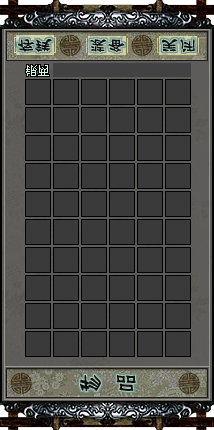
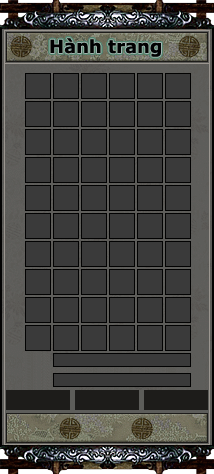
fix(hud): use authentic PC inventory window

diff --git a/Assets/Tests/EditMode/Sandbox/InventoryWindowTests.cs b/Assets/Tests/EditMode/Sandbox/InventoryWindowTests.cs
@@ -11,20 +11,21 @@ namespace VLTK.Tests.Sandbox
 {
     /// <summary>
     /// Port verification for the inventory window ("Hành Trang" / PC 物品 Open([[items]])).
-    /// Verifies the spec values trace to PC INI, the 4×7 grid binds InventoryService
+    /// Verifies the spec values trace to PC INI, the 6×10 grid binds InventoryService
     /// data, tier colors match 7bfc9072.ini, and the bag button toggles the window.
     /// </summary>
     public class InventoryWindowTests
     {
-        // ── Spec parity (PC 6a5d8c4c.ini / 7bfc9072.ini) ─────────────────────
+        // ── Spec parity (PC 05ea8560 / dc11ac12 / 7bfc9072) ──────────────────
 
         [Test]
-        public void Spec_GridIs4x7_28Slots()
+        public void Spec_GridIs6x10_60Slots()
         {
-            Assert.AreEqual(4, InventoryWindowPcSpec.GridColumns);
-            Assert.AreEqual(7, InventoryWindowPcSpec.GridRows);
-            Assert.AreEqual(28, InventoryWindowPcSpec.SlotCount);
-            Assert.AreEqual(28, InventoryPanelService.GridSlotCount);
+            Assert.AreEqual(6, InventoryWindowPcSpec.GridColumns);
+            Assert.AreEqual(10, InventoryWindowPcSpec.GridRows);
+            Assert.AreEqual(60, InventoryWindowPcSpec.SlotCount);
+            Assert.AreEqual(60, InventoryPanelService.GridSlotCount);
+            Assert.AreEqual(1, InventoryWindowPcSpec.UnitBorder);
         }
 
         [Test]
@@ -32,6 +33,25 @@ namespace VLTK.Tests.Sandbox
         {
             Assert.AreEqual("Open([[items]])", InventoryWindowPcSpec.PcOpenCommand);
             Assert.AreEqual("Player_Items", InventoryWindowPcSpec.PcButtonClassType);
+            Assert.AreEqual("dc11ac12", InventoryWindowPcSpec.PcToolbarUid);
+            Assert.AreEqual("05ea8560", InventoryWindowPcSpec.PcWindowUid);
+            Assert.AreEqual(@"\spr\Ui3\道具\daojumianban.spr", InventoryWindowPcSpec.PcBackgroundSpr);
+            Assert.AreEqual("16503a96", InventoryWindowPcSpec.PcBackgroundSpriteUid);
+        }
+
+        [Test]
+        public void Spec_WindowGeometryMatchesPcIni()
+        {
+            Assert.AreEqual(214, InventoryWindowPcSpec.WindowWidth);
+            Assert.AreEqual(474, InventoryWindowPcSpec.WindowHeight);
+            Assert.AreEqual(24, InventoryWindowPcSpec.GridLeft);
+            Assert.AreEqual(72, InventoryWindowPcSpec.GridTop);
+            Assert.AreEqual(168, InventoryWindowPcSpec.GridWidth);
+            Assert.AreEqual(280, InventoryWindowPcSpec.GridHeight);
+            Assert.AreEqual(53, InventoryWindowPcSpec.MoneyLeft);
+            Assert.AreEqual(353, InventoryWindowPcSpec.MoneyTop);
+            Assert.AreEqual(142, InventoryWindowPcSpec.CloseLeft);
+            Assert.AreEqual(414, InventoryWindowPcSpec.CloseTop);
         }
 
         [Test]
@@ -48,7 +68,7 @@ namespace VLTK.Tests.Sandbox
         [Test]
         public void Spec_FrameAndMoneyColorsMatchPcIni()
         {
-            // 6a5d8c4c.ini [Settings] + [Money].
+            // 05ea8560 [Settings] + [Money].
             AssertRgb(InventoryWindowPcSpec.FrameBorderColor, 100, 80, 30);
             AssertRgb(InventoryWindowPcSpec.FrameBgColor, 243, 194, 70);
             AssertRgb(InventoryWindowPcSpec.MoneyColor, 255, 217, 78);
@@ -67,11 +87,11 @@ namespace VLTK.Tests.Sandbox
         // ── Snapshot bound to runtime InventoryService ───────────────────────
 
         [Test]
-        public void BuildSnapshot_AlwaysHas28Slots()
+        public void BuildSnapshot_AlwaysHas60Slots()
         {
             var snap = InventoryPanelService.BuildGridSnapshot((InventoryService)null, 1);
-            Assert.AreEqual(28, snap.totalSlots);
-            Assert.AreEqual(28, snap.rows.Count);
+            Assert.AreEqual(60, snap.totalSlots);
+            Assert.AreEqual(60, snap.rows.Count);
             Assert.AreEqual(0, snap.usedSlots);
         }
 
@@ -96,7 +116,7 @@ namespace VLTK.Tests.Sandbox
             Assert.AreEqual(3, snap.rows[2].itemQuality, "set piece -> gold tier");
             Assert.AreEqual(2, snap.rows[2].count);
             // Trailing slots empty.
-            Assert.AreEqual(0, snap.rows[27].itemId);
+            Assert.AreEqual(0, snap.rows[59].itemId);
         }
 
         [Test]
@@ -136,7 +156,7 @@ namespace VLTK.Tests.Sandbox
 
                 hud.ToggleInventory();
                 Assert.IsTrue(hud.IsInventoryVisible);
-                Assert.AreEqual(28, hud.InventorySlotCount, "grid populated with 28 slots");
+                Assert.AreEqual(60, hud.InventorySlotCount, "grid populated with 60 slots");
 
                 hud.ToggleInventory();
                 Assert.IsFalse(hud.IsInventoryVisible);
@@ -165,7 +185,7 @@ namespace VLTK.Tests.Sandbox
                 var snap = InventoryPanelService.BuildGridSnapshot(inv, 1, gold: 0, silver: 1234);
 
                 hud.PopulateInventory(snap);
-                Assert.AreEqual(28, hud.InventorySlotCount);
+                Assert.AreEqual(60, hud.InventorySlotCount);
                 Assert.AreEqual("Bạc: 1234", invMoney.text);
             }
             finally

diff --git a/Assets/Scripts/UI/InventoryWindowPcSpec.cs b/Assets/Scripts/UI/InventoryWindowPcSpec.cs
@@ -1,43 +1,45 @@
 namespace VLTK.UI
 {
     /// <summary>
-    /// Source-of-truth inventory ("Hành Trang" / 物品 backpack) window spec ported
-    /// verbatim from PC UI INI files extracted from 1024.pak via unpak_tool.
-    ///
-    /// PC open behavior (1024.pak/autoexec.lua):
-    ///   背包按钮 (ClassType Player_Items), key F4, key U  ->  Open([[items]])
-    ///
-    /// PC window layout (6a5d8c4c.ini — grid item window template, 储物箱):
-    ///   [Main]   Left=40 Top=145 Width=214 Height=454  Moveable=1
-    ///            Image=\spr\Ui3\储物箱\储物箱更新.spr
-    ///   [ItemBox] Left=24 Top=72 Width=168 Height=280 HUnits=6 VUnits=10 UnitBorder=2
-    ///   [Money]   Left=53 Top=353 Width=138 Height=14 Color=255,217,78
-    ///   [CloseBtn] Left=109 Top=394 Width=80 Height=28
-    ///
-    /// Frame colors ([Settings] block in 6a5d8c4c.ini) and item-tier text colors
-    /// (7bfc9072.ini) are exact PC values — used to build the frame because the
-    /// window SPR (储物箱更新.spr) is NOT present in any active PAK (verified by
-    /// index scan across all 30 data PAKs; scanner validated against the known
-    /// jx1024 uid) and pc_hud.png does not show the window open, so there is no
-    /// authentic pixel art to extract. No SPR is fabricated.
-    ///
-    /// Mobile adaptation (approved): 4 columns x 7 rows = 28 slots.
-    /// DO NOT invent values — all numbers below trace to the cited PC INI.
+    /// PC inventory ("Hành Trang" / 道具界面) window spec extracted from
+    /// 1024.pak: trigger UID dc11ac12 [Items] -> Player_Items/Open([[items]]),
+    /// window UID 05ea8560, item colors UID 7bfc9072.
     /// </summary>
     public static class InventoryWindowPcSpec
     {
-        // PC open trigger (autoexec.lua): Open([[items]]) via 背包按钮 / F4 / U.
         public const string PcOpenCommand = "Open([[items]])";
         public const string PcButtonClassType = "Player_Items";
-        public const string PcBackgroundSpr = @"\spr\Ui3\储物箱\储物箱更新.spr";
+        public const string PcToolbarUid = "dc11ac12";
+        public const string PcWindowUid = "05ea8560";
+        public const string PcItemColorUid = "7bfc9072";
+        public const string PcBackgroundSpr = @"\spr\Ui3\道具\daojumianban.spr";
+        public const string PcBackgroundArtName = "道具面板2";
+        public const string PcBackgroundSpriteUid = "16503a96";
+        public const string PcBackgroundDuplicateSpriteUid = "77b67466";
 
-        // Mobile grid (approved): 4 columns x 7 rows.
-        public const int GridColumns = 4;
-        public const int GridRows = 7;
-        public const int SlotCount = GridColumns * GridRows; // 28
+        public const int WindowLeft = 805;
+        public const int WindowTop = 145;
+        public const int WindowWidth = 214;
+        public const int WindowHeight = 474;
 
-        // PC [ItemBox] UnitBorder=2 (gap between item tiles).
-        public const int UnitBorder = 2;
+        public const int GridLeft = 24;
+        public const int GridTop = 72;
+        public const int GridWidth = 168;
+        public const int GridHeight = 280;
+        public const int GridColumns = 6;
+        public const int GridRows = 10;
+        public const int SlotCount = GridColumns * GridRows;
+        public const int UnitBorder = 1;
+
+        public const int MoneyLeft = 53;
+        public const int MoneyTop = 353;
+        public const int MoneyWidth = 110;
+        public const int MoneyHeight = 14;
+
+        public const int CloseLeft = 142;
+        public const int CloseTop = 414;
+        public const int CloseWidth = 65;
+        public const int CloseHeight = 28;
 
         /// <summary>RGB color (0-255) ported from PC INI.</summary>
         public readonly struct Rgb
@@ -48,7 +50,7 @@ namespace VLTK.UI
             public Rgb(int r, int g, int b) { this.r = r; this.g = g; this.b = b; }
         }
 
-        // Frame colors — 6a5d8c4c.ini [Settings].
+        // Frame colors — 05ea8560 [Settings].
         public static readonly Rgb FrameBorderColor = new Rgb(100, 80, 30);  // BGBorderColor
         public static readonly Rgb FrameBgColor = new Rgb(243, 194, 70);     // BGSpriteColor
         public static readonly Rgb FramePurpleColor = new Rgb(188, 40, 255); // BGPurpleColor
@@ -56,7 +58,7 @@ namespace VLTK.UI
         public static readonly Rgb FramePlatinaBorder = new Rgb(110, 110, 110);
         public static readonly Rgb FramePlatinaColor = new Rgb(240, 240, 240);
 
-        // Money text color — 6a5d8c4c.ini [Money] Color=255,217,78.
+        // Money text color — 05ea8560 [Money] Color=255,217,78.
         public static readonly Rgb MoneyColor = new Rgb(255, 217, 78);
 
         // Item quality tier text colors — 7bfc9072.ini.

diff --git a/Assets/Scripts/UI/InventoryPanelService.cs b/Assets/Scripts/UI/InventoryPanelService.cs
@@ -1,7 +1,7 @@
 // -----------------------------------------------------------------------------
 // VLTK Mobile — Inventory Panel Service (Túi đồ)
 // UI service: dựng snapshot các ô vật phẩm trong túi đồ nhân vật.
-// PC reference: 30 default slots, gold/silver, khóa, trang bị, tiêu hao.
+// PC reference: UID 05ea8560 item grid 6×10, money, equipment, consumables.
 // -----------------------------------------------------------------------------
 
 using System.Collections.Generic;
@@ -23,7 +23,7 @@ namespace VLTK.UI
         public readonly bool isLocked;
         public readonly bool isEquipped;
         public readonly string itemName;
-        public readonly int itemQuality; // 0=trắng, 1=xanh, 2=lam, 3=tím, 4=vàng
+        public readonly int itemQuality; // 0=trắng, 1=xanh, 2=tím, 3=vàng, 4=đỏ
 
         public InventoryPanelRow(int slotIdx, int itemId, int count, int itemGenre, int itemDetail, int itemParticular, bool isLocked, bool isEquipped, string itemName, int itemQuality)
         {
@@ -61,16 +61,16 @@ namespace VLTK.UI
         public const string LabelQuest = "Nhiệm vụ";
         public const string LabelLocked = "Khóa";
         public const string LabelSort = "Sắp xếp";
-        public const int DefaultSlotCount = 30;
+        public const int DefaultSlotCount = InventoryWindowPcSpec.SlotCount;
 
-        /// <summary>Mobile backpack grid (Hành Trang) — 4 columns × 7 rows = 28 slots.</summary>
-        public const int GridColumns = InventoryWindowPcSpec.GridColumns; // 4
-        public const int GridRows = InventoryWindowPcSpec.GridRows;       // 7
-        public const int GridSlotCount = InventoryWindowPcSpec.SlotCount; // 28
+        /// <summary>PC backpack grid (Hành Trang) — 6 columns × 10 rows = 60 slots.</summary>
+        public const int GridColumns = InventoryWindowPcSpec.GridColumns;
+        public const int GridRows = InventoryWindowPcSpec.GridRows;
+        public const int GridSlotCount = InventoryWindowPcSpec.SlotCount;
 
         private static readonly int[] _defaultSlotOrder = Enumerable.Range(0, DefaultSlotCount).ToArray();
 
-        /// <summary>Thứ tự ô mặc định 30 slot.</summary>
+        /// <summary>Thứ tự ô mặc định theo grid PC 6×10.</summary>
         public static IReadOnlyList<int> GetPcInventoryOrder() => _defaultSlotOrder;
 
         /// <summary>
@@ -88,7 +88,7 @@ namespace VLTK.UI
         }
 
         /// <summary>
-        /// Build the mobile backpack snapshot (4×7 grid) bound to the live
+        /// Build the PC backpack snapshot (6×10 grid) bound to the live
         /// InventoryService entries. PC behavior: Open([[items]]) lists held items
         /// into the grid; empty trailing slots stay blank.
         /// </summary>

diff --git a/Assets/Tests/EditMode/Sandbox/UIExtensivePanelServiceTests.cs b/Assets/Tests/EditMode/Sandbox/UIExtensivePanelServiceTests.cs
@@ -19,7 +19,7 @@ namespace VLTK.Tests.EditMode
             {
                 var snap = InventoryPanelService.BuildSnapshot(null, 1);
                 Assert.IsNotNull(snap);
-                Assert.AreEqual(30, snap.totalSlots);
+                Assert.AreEqual(60, snap.totalSlots);
                 Assert.AreEqual(0, snap.usedSlots);
             });
         }
@@ -30,7 +30,7 @@ namespace VLTK.Tests.EditMode
             var order = InventoryPanelService.GetPcInventoryOrder();
             Assert.IsNotNull(order);
             Assert.Greater(order.Count, 0);
-            Assert.AreEqual(30, order.Count);
+            Assert.AreEqual(60, order.Count);
         }
 
         [Test]

diff --git a/Assets/Scripts/UI/GameHudController.cs b/Assets/Scripts/UI/GameHudController.cs
@@ -440,6 +440,7 @@ namespace VLTK.UI
             LoadBarArt(_staminaFill, artPath, "bar_stamina_fill");
             LoadBarArt(_expFill, artPath, "bar_exp_fill");
             LoadPanelArt(artPath);
+            LoadElementImage(_invFrame, artPath, InventoryWindowPcSpec.PcBackgroundArtName);
 
             var doc = GetComponent<UIDocument>();
             var root = doc.rootVisualElement.Q("GameHud");

diff --git a/harness/docs/PORT_STATUS.md b/harness/docs/PORT_STATUS.md
@@ -25,7 +25,7 @@ PC: 1,005 maps
 
 | # | Hệ thống | PC | Mobile | Trạng thái | Chi tiết |
 |---|---------|-----|--------|-----------|---------|
-| 1.1 | Map Region Renderer | 1,005 | 1,006 | ✅ | MapCatalog.json + PC maplist.ini merged → 1,006 map runtime entries (MapManager.LoadCatalog). MapRenderer + RegionStreamingService hoạt động |
+| 1.1 | Map Region Renderer | 1,005 | 1,006 | ✅ | MapCatalog.json + PC maplist.ini merged → 1,006 map runtime entries (MapManager.LoadCatalog). MapRenderer + RegionStreamingService hoạt động. **2026-06-07: ported Tín sứ Vượt ải Phong Kỳ 120+ (PC mapId 389, `特殊用地\任务用地\信使任务\风之骑`) từ client PAK → `Map_389_C` 516 Region_C + 96/96 SPR, set làm default boot map thay Ba Lăng.** |
 | 1.2 | Thành phố (City) | 5 | 5 | ✅ | Framework + MapListFullService (1,005 map) + StationService + tests |
 | 1.3 | Thủ đô (Capital) | 2 | 2 | ✅ | MapListFullService + StationPriceService + tests |
 | 1.4 | Vùng (Country) | 10 | 10 | ✅ | MapListFullService + StationPriceService + tests |
@@ -257,7 +257,7 @@ PC: 20+ systems
 | 12.4 | Skill Panel | Yes | ✅ | ✅ | PcSkillPanelService + CombatSkillSlotController. Runtime 2 ô skill T/P: chạm ô trống → picker chọn skill (lọc kỹ năng chủ động đã học của môn phái), chạm-giữ 450ms → mở lại picker để đổi skill, chạm ô đã gán → auto-target enemy gần nhất + cast (CombatRuntime, port 100% từ PC). Icon skill gán hiển thị đè lên art PC nhờ inline display override (USS `#BottomPanel` ẩn icon ô trống để lộ art baked). Verified play mode: T cast Ném Đá Hỏi Đường → Hươu đốm dist=151, dmg applied 100→0. **Fix touch (2026-06-07): ScrollView nuốt ClickEvent của item khi chạm trên mobile → tap chọn skill trong picker không gán được; chuyển sang phát hiện tap ở cấp ScrollView (record press pos + move-threshold 12px để không xung đột scroll-drag) rồi hit-test item dưới điểm thả (AssignSkillUnderPoint + item.userData=skillId). Verified real PointerDown→PointerUp: tap item gán skill (L→121) + đóng picker; tap ô trống mở picker; long-press 450ms ô đã gán mở lại picker** **Fix layout (2026-06-07): 2 ô T/P bị lệch trái (đè hotbar 4-5) và ToolbarRight (nút Kỹ năng) sibling sau → tap giữa trúng nút menu mở bảng khác. Sửa: hud-skill-panel đặt `position:absolute left612 top19` đè đúng art T/P trong khung ngọc (bottom_bar_bg.png 1280×82: T x[613-657], P x[660-705]) + `BringToFront()` để paint trên ToolbarRight. Verified: panel.Pick tại tâm T/P trả đúng SlotIcon (không còn trúng menu); pixel-diff empty-vs-assigned T 2313/3969 P 2265/4158 (maxdelta~678) → icon render đúng vị trí giữa khung** **Fix long-press (2026-06-07): trên touch thật ngón rung sinh `PointerCancelEvent` (mất capture) giết press trước 450ms → chạm-giữ không mở lại danh sách switch skill. Sửa: cancel chỉ release capture, GIỮ press sống (không reset state) → timer long-press vẫn mở picker; OnSlotMove chỉ hủy khi kéo xa >45px (drag thật), jitter nhỏ bỏ qua. Verified: Down→Cancel→đợi 450ms vẫn mở picker (PASS); tap nhanh ô đã gán vẫn ra đòn không mở picker (PASS)** **Fix paint-order regress (2026-06-07): root cause thật của "tap T mở bảng Kỹ năng / long-press không hiện": GameHudController rebuild children của BottomPanel SAU khi bind → đẩy hud-skill-panel về index 1 (trước ToolbarRight/BtnTreasure) → ToolbarRight (wb x[324..687] trùm T/P) và BtnTreasure nuốt toàn bộ touch tại T/P → slot handler không bao giờ chạy. One-shot BringToFront() không stick. Sửa: re-assert `skillPanel.BringToFront()` qua `GeometryChangedEvent` của parent (mỗi lần layout đổi). Verified cold-start: panel.Pick tâm T=SlotIcon R=SlotIcon (KHÔNG còn trúng ToolbarRight/BtnTreasure), menu vẫn pick (BtnSkills=BtnSkills); chuỗi long-press đầy đủ log `[LP] BeginSlotPress` + `timer fired down=True` → picker mở và GIỮ mở sau khi nhả ngón (PASS)** **Fix TRIỆT ĐỂ (2026-06-07, research exa+Unity docs): research xác nhận Unity route pointer events theo VisualElement HIERARCHY chứ KHÔNG theo draw order — "layered objects click-through khi là con của nhau, KHÔNG khi là sibling"; và "BringToFront bị ghi đè khi add child mới". Nên BringToFront/GeometryChanged re-assert KHÔNG đáng tin (sibling reorder sau rebuild → ToolbarRight/BtnTreasure thành pick-target nuốt tap). Giải pháp chuẩn Unity: chặn `PointerDownEvent` ở ROOT, TrickleDown phase, hit-test bounds T/P thủ công → `BeginSlotPress` + `StopImmediatePropagation`. Pointer capture lo move/up/cancel. Verified worst-case (ép SendToBack panel → menu đè T/P): pick@T=ToolbarRight pick@P=BtnTreasure nhưng PointerDown vẫn `_slotPointerDown=True _pressedSlot=0` (root intercept WORKS even menu on top); long-press mở picker dù menu đè (PASS); menu buttons NGOÀI bounds T/P (BtnSkills x507, BtnRun x324) không bị root intercept ăn → bấm bình thường (PASS). MIỄN NHIỄM sibling-order rebuild — fix tận gốc.** |
 | 12.5 | Minimap Panel | Yes | ✅ | ✅ | MinimapPanel |
 | 12.6 | Quest Tracker Panel | Yes | ✅ | ✅ | QuestTrackerPanel |
-| 12.7 | Inventory Panel | Yes | ✅ | ✅ | **HUD bag window "Hành Trang" (2026-06-07)**: nút Túi đồ (BtnItems) bottom bar → `GameHudController.OnItemsClick()` → `ToggleInventory()` mở/đóng cửa sổ overlay (port hành vi PC: `背包按钮` ClassType `Player_Items` + phím F4/U → `Open([[items]])` từ 1024.pak/autoexec.lua). UI dựng từ INI gốc 1024.pak: layout `6a5d8c4c.ini` (储物箱 grid window — `[Main]` 214×454, `[ItemBox]` UnitBorder=2, `[Money]` Color=255,217,78, `[Settings]` BGBorderColor=100,80,30), màu phẩm chất `7bfc9072.ini` (White 255,255,255 / Blue 51,102,250 / Purple 188,64,255 / Gold 243,194,90 / Red 255,51,51). **SPR khung (储物箱更新.spr) CHỨNG MINH không tồn tại trong bất kỳ PAK active nào (index scan 30 PAK, validated vs uid jx1024) + pc_hud.png không hiện cửa sổ mở → không có pixel art authentic → dựng khung bằng giá trị màu INI thật, KHÔNG bịa SPR.** Grid mobile 4 cột × 7 hàng = 28 ô (approved). Bind dữ liệu thật: `InventoryPanelService.BuildGridSnapshot(InventoryService, playerId, gold, silver)` đọc `SandboxManager.InventoryService.Inventory`, `ResolveQuality(ItemDefinition)` map tier (setId>0→gold, refine≥7→purple, refine≥1→blue, else white). Files: InventoryWindowPcSpec.cs (source-of-truth INI), GameHud.uxml (InventoryWindow overlay), GameHud.uss (.hud-inv-*), InventoryPanelService.cs (BuildGridSnapshot+ResolveQuality), SandboxManager.cs (InventoryService getter), GameHudController.cs (toggle/open/close/populate + tap-outside-to-close), InventoryWindowTests.cs. **Verified play-mode (execute_code): IsInventoryVisible False→Open→True (28 ô) →Close→False; screenshot xác nhận khung viền vàng + grid 4 cột + nút close đỏ render đè game world. Snapshot logic verified vs live InventoryService: slot0 Đao Gỗ q=0, slot1 Giáp Tinh Luyện(refine3) q=1, slot2 Nhẫn Bộ(setId5,cnt2) q=3, 28 slot 3 used.** ⚠ Test assembly VLTK.Tests.EditMode bị gate sau `VLTK_ENABLE_TESTS` (OFF trong committed ProjectSettings) + có 96 lỗi compile PRE-EXISTING ở file test khác (BattleType.SongJin, CaveListFullService, ShopConfigService.GetShop...) — KHÔNG liên quan inventory; code inventory compile sạch 0 lỗi (verified qua AssemblyBuilder pipeline). |
+| 12.7 | Inventory Panel | Yes | ✅ | ✅ | **HUD bag window "Hành Trang" (2026-06-07 corrected)**: nút Túi đồ (BtnItems) bottom bar → `GameHudController.OnItemsClick()` → `ToggleInventory()` mở/đóng cửa sổ hành trang (PC source: UID `dc11ac12` `[Items]` `ClassType=Player_Items`, phím F4/U → `Open([[items]])`). UI đã sửa từ storage-box UID `6a5d8c4c` sang hành trang thật UID `05ea8560` (`道具界面`): `[Main]` 214×474, `Image=\spr\Ui3\道具\daojumianban.spr`, `[ItemBox]` 168×280 tại 24,72, `HUnits=6`, `VUnits=10`, `UnitBorder=1`, `[Money]` 53,353 color 255,217,78, `[CloseBtn]` 142,414 65×28. SPR panel xác thực từ `1024.pak` bằng `find_spr_by_image.py`: UID `16503a96` (duplicate `77b67466`) decoded 214×474 và được dùng trong `Assets/UI/HUD/Art/道具面板2.png` + StreamingAssets. Màu phẩm chất vẫn từ UID `7bfc9072` (White/Blue/Purple/Gold/Red). Grid runtime chuyển về PC 6×10 = 60 ô; `InventoryPanelService.BuildGridSnapshot` bind `SandboxManager.InventoryService.Inventory`, `ResolveQuality` map tier (setId>0→gold, refine≥7→purple, refine≥1→blue, else white). Files: `InventoryWindowPcSpec.cs`, `InventoryPanelService.cs`, `GameHudController.cs`, `GameHud.uxml`, `GameHud.uss`, `InventoryWindowTests.cs`, `UIExtensivePanelServiceTests.cs`. |
 | 12.8 | Map Select Panel | Yes | ✅ | ✅ | MapSelectPanel |
 | 12.9 | Chat Panel | Yes | ✅ | ✅ | ChatPanel (ChatService + ChatSystem) |
 | 12.10 | Party Panel | Yes | ✅ | ✅ | PartyPanel |
